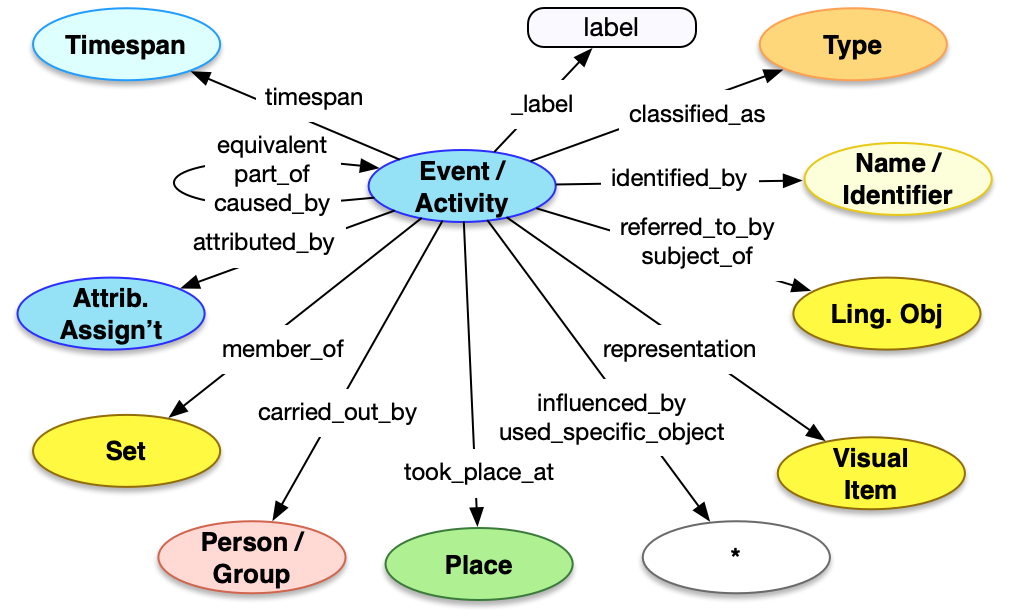
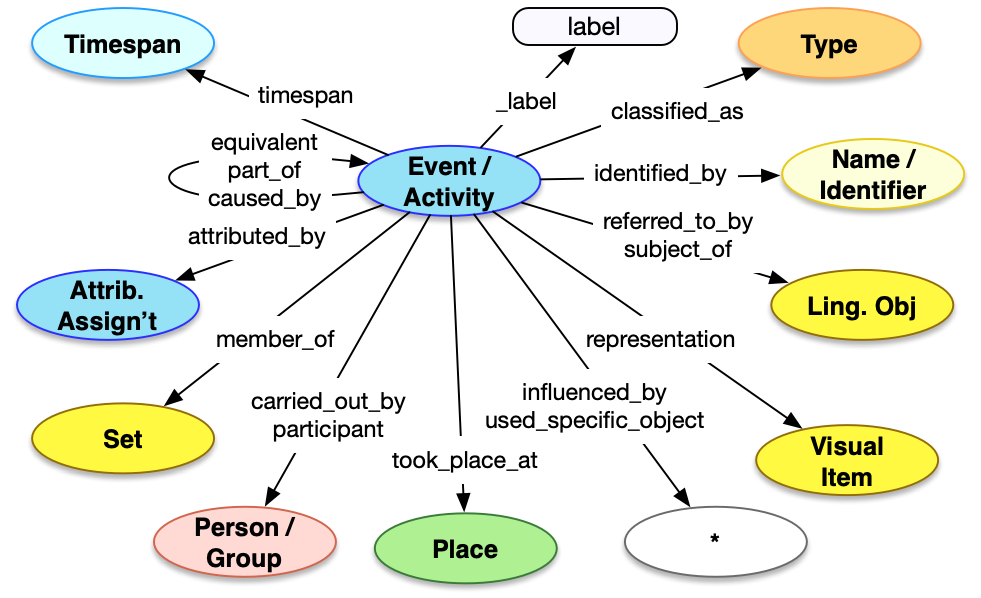
commission update

diff --git a/docs/api/1.0/endpoint/provenance_activity/index.md b/docs/api/1.0/endpoint/provenance_activity/index.md
@@ -48,6 +48,7 @@ The top level Activity has the following properties.
 | `caused_by`       | array         | Optional    | An array of json objects, each of which is a [reference](../../shared/reference/) to an [Event](../event/) that caused the event to occur |
 | `influenced_by`   | array         | Optional    | An array of json objects, each of which is a [reference](../../shared/reference/) to an entity that influenced the event in some noticable fashion | 
 | `carried_out_by`  | array         | Optional    | An array of json objects, each of which is a [reference](../../shared/reference/) to a [Person](../person/) or [Group](../group/) that carried out the activity |
+| `participant`  | array         | Optional    | An array of json objects, each of which is a [reference](../../shared/reference/) to a [Person](../person/) or [Group](../group/) that participated in the activity but did not carry it out. |
 | `used_specific_object` | array    | Optional    | An array of json objects, each of which is a [reference](../../shared/reference)] to an entity that was instrumental in the carrying out of the activity |
 | `part` | array | Required | The more detailed changes that the activity consists of, described below|
 
@@ -77,6 +78,7 @@ Each of the activities in the `part` property can have the properties in the tab
 | `took_place_at`   | array         | Optional    | An array of json objects, each of which is a [reference](../../shared/reference/) to a [Place](../place/) where the creation or publication occured |
 | `influenced_by`   | array         | Optional    | An array of json objects, each of which is a [reference](../../shared/reference/) to an entity that influenced the creation or publication in some noticable fashion | 
 | `carried_out_by`  | array         | Optional    | An array of json objects, each of which is a [reference](../../shared/reference/) to a [Person](../person/) or [Group](../group/) that carried out the creation or publication |
+| `participant`  | array         | Optional    | An array of json objects, each of which is a [reference](../../shared/reference/) to a [Person](../person/) or [Group](../group/) that participated in the activity but did not carry it out. |
 | `used_specific_object` | array    | Optional    | An array of json objects, each of which is a [reference](../../shared/reference)] to an entity that was instrumental in the carrying out of the activity |
 
 #### Properties of Part: Acquisition

diff --git a/docs/model/object/production/index.md b/docs/model/object/production/index.md
@@ -148,6 +148,23 @@ top = model.HumanMadeObject(ident="ccp-plate/1", label="Plate for CCP")
 top.made_of = vocab.instances['copper']
 ```
 
+## Cause of Production
+
+Artworks are frequently commissioned, where an artist agrees to create the artwork and the commissioner agrees to compenate the artist for his efforts. The modeling of the [commission](/model/provenance/promises/#commissions-for-artwork) is described in the Provenance section, as an exchange of promises, and potentially also Payments. The object can refer to this Activity in its Production with the `caused_by` property.
+
+__Example:__
+
+The production of the [Nuveen Painting](https://artgallery.yale.edu/collections/objects/290048) was caused by its commissioning.
+
+```crom
+top = model.HumanMadeObject(ident="nuveen/1", label="Nuveen Painting")
+top.identified_by = vocab.PrimaryName(content="The Nuveen Painting")
+prod = model.Production()
+prod.carried_out_by = model.Person(ident="dine", label="Jim Dine")
+prod.caused_by = model.Activity(ident="nuveen_commission", label="Commission")
+top.produced_by = prod
+```
+
 ## Unidentified or Unknown Artist
 
 Many objects are created by an unknown or unidentified artist. While it is possible to have a different Person record with "Unidentified Artist" as the name, this quickly creates a huge number of identified people in the system with only a single reference to each. Instead, it is recommended to create a Group record to represent all unidentified artists, and then each object would have its Production `carried_out_by` the Group, meaning one (or more) people within that artificial set of people.

diff --git a/docs/api/1.0/endpoint/event/index.md b/docs/api/1.0/endpoint/event/index.md
@@ -46,6 +46,7 @@ Dereferencing an entity via the Event endpoint would result in a JSON-LD documen
 | `caused_by`       | array         | Optional    | An array of json objects, each of which is a [reference](../../shared/reference/) to another Event that caused this event to occur. **Only usable when the `type` is `"Event"` or `"Activity"`** |
 | `influenced_by`   | array         | Optional    | An array of json objects, each of which is a [reference](../../shared/reference/) to an entity that influenced the event in some noticable fashion.  **Only usable when the `type` is `"Activity"`** | 
 | `carried_out_by`  | array         | Optional    | An array of json objects, each of which is a [reference](../../shared/reference/) to a [Person](../person/) or [Group](../group/) that carried out the activity. **Only usable when the `type` is `"Activity"`** |
+| `participant`  | array         | Optional    | An array of json objects, each of which is a [reference](../../shared/reference/) to a [Person](../person/) or [Group](../group/) that participated in the event but did not carry it out. **Only usable when the `type` is "Event" or "Activity"`** |
 | `used_specific_object` | array    | Optional    | An array of json objects, each of which is a [reference](../../shared/reference)] to an entity that was instrumental in the carrying out of the activity. **Only usable when the `type` is `"Activity"`** |
 
 

diff --git a/docs/model/provenance/promises.md b/docs/model/provenance/promises.md
@@ -58,6 +58,7 @@ The "Nuveen Painting" by Jim Dine was commissioned by Richard Franke in 1985.
 
 ```crom
 top = vocab.ProvenanceEntry(ident="nuveen_commission/1", label="Commission of Painting")
+top.classified_as = model.Type(ident="http://vocab.getty.edu/aat/300393199", label="Commissioning")
 promise = vocab.Promise(label="Obligation to Pay Artist")  
 fromwho = model.Person(ident="franke", label="Richard Franke")
 towho = model.Person(ident="dine", label="Jim Dine")
@@ -72,12 +73,4 @@ promprod.referred_to_by = vocab.Description(content="Promise to produce a painti
 top.part = promprod
 ```
 
-The resulting production activity has a cause, which is the above Provenance Event.
-
-```crom
-top = vocab.Painting(ident="nuveen/1", label="Nuveen Painting")
-top.identified_by = vocab.PrimaryName(content="The Nuveen Painting")
-prod = model.Production()
-prod.carried_out_by = model.Person(ident="dine", label="Jim Dine")
-prod.caused_by = model.Activity(ident="nuveen_commission", label="Commission of Painting")
-```
+The resulting production activity has a `caused_by` property that references the above Provenance Event, as described in the [object](/model/object/production/#cause-of-production) documentation.
